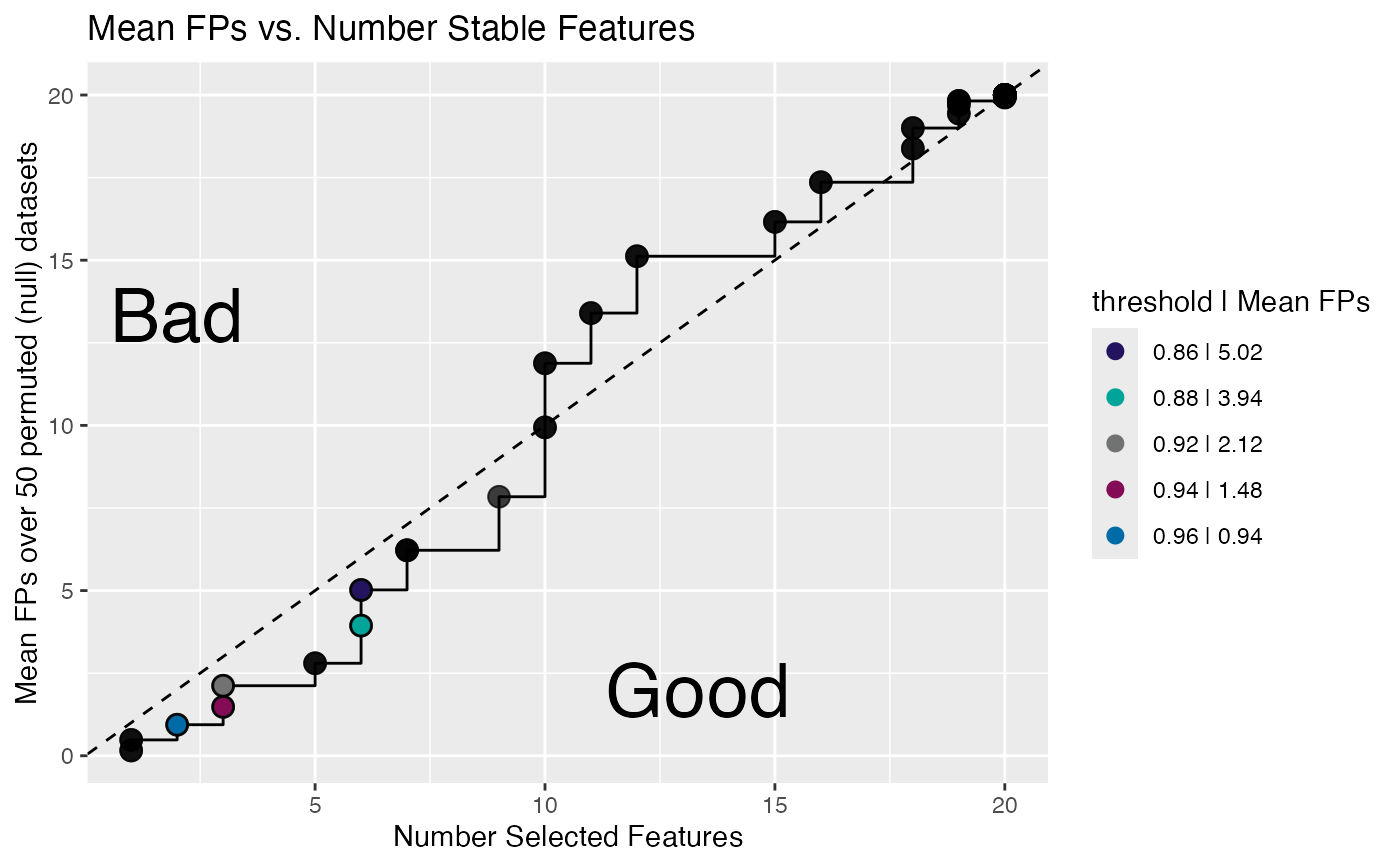
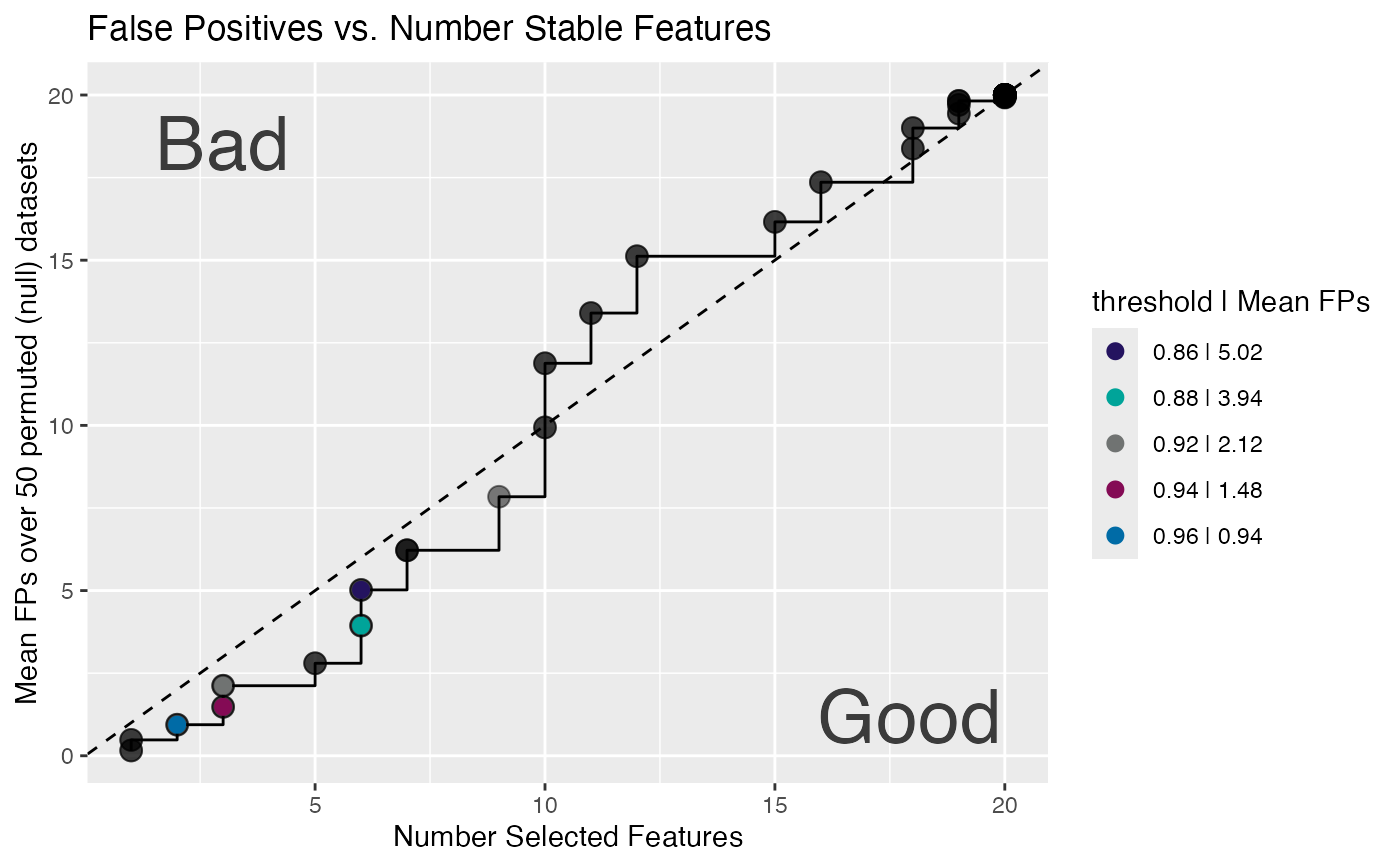
Built site for stabilityselectr@0.1.0: ffa2b7c

diff --git a/reference/calc_emp_fdr.html b/reference/calc_emp_fdr.html
@@ -60,7 +60,7 @@ stability selection, (i.e. <code>n_perm &gt; 0</code>).</p>
 <span>  fdr_breaks <span class="op">=</span> <span class="fu"><a href="https://rdrr.io/r/base/c.html" class="external-link">c</a></span><span class="op">(</span><span class="fl">0.5</span>, <span class="fl">1</span>, <span class="fl">2</span>, <span class="fl">3</span>, <span class="fl">5</span><span class="op">)</span></span>
 <span><span class="op">)</span></span>
 <span></span>
-<span><span class="fu">plot_emp_fdr</span><span class="op">(</span><span class="va">x</span>, thresh_seq <span class="op">=</span> <span class="fu"><a href="https://rdrr.io/r/base/seq.html" class="external-link">seq</a></span><span class="op">(</span><span class="fl">1</span>, <span class="fl">0.1</span>, by <span class="op">=</span> <span class="op">-</span><span class="fl">0.01</span><span class="op">)</span><span class="op">)</span></span>
+<span><span class="fu">plot_emp_fdr</span><span class="op">(</span><span class="va">x</span>, <span class="va">...</span><span class="op">)</span></span>
 <span></span>
 <span><span class="fu">plot_permuted_data</span><span class="op">(</span><span class="va">x</span>, which <span class="op">=</span> <span class="cn">NULL</span>, <span class="va">...</span><span class="op">)</span></span></code></pre></div>
     </div>
@@ -92,13 +92,15 @@ to calculate various thresholds.</p>
 <p><code>numeric(n)</code>. A vector specifying the</p></dd>
 
 
+<dt id="arg--">...<a class="anchor" aria-label="anchor" href="#arg--"></a></dt>
+<dd><p>Additional arguments passed to either
+<code>calc_emp_fdr_breaks()</code> (i.e. <code>thresh_seq</code> and <code>fdr_breaks</code>)
+or <code><a href="stability_selection.html">plot.stab_sel()</a></code>.</p></dd>
+
+
 <dt id="arg-which">which<a class="anchor" aria-label="anchor" href="#arg-which"></a></dt>
 <dd><p><code>integer(1)</code>. Which of the null hypothesis
 permuted stability paths to plot.</p></dd>
-
-
-<dt id="arg--">...<a class="anchor" aria-label="anchor" href="#arg--"></a></dt>
-<dd><p>Additional arguments passed to <code><a href="stability_selection.html">plot.stab_sel()</a></code>.</p></dd>
 
 </dl></div>
     <div class="section level2">
@@ -163,8 +165,8 @@ of the <code>n</code> class scrambled permutations, i.e. the null.</p></li>
 <span class="r-in"><span><span class="va">ss</span> <span class="op">&lt;-</span> <span class="fu"><a href="stability_selection.html">stability_selection</a></span><span class="op">(</span><span class="va">x</span>, <span class="va">y</span>, n_iter <span class="op">=</span> <span class="fl">25</span>, n_perm <span class="op">=</span> <span class="fl">50</span>,</span></span>
 <span class="r-in"><span>                          r_seed <span class="op">=</span> <span class="fl">101</span>, parallel <span class="op">=</span> <span class="cn">TRUE</span><span class="op">)</span></span></span>
 <span class="r-msg co"><span class="r-pr">#&gt;</span> <span style="color: #00BB00;">✓</span> Using kernel: <span style="color: #0000BB;">'binomial'</span> and <span style="color: #0000BB;">1</span> core (serial)</span>
-<span class="r-msg co"><span class="r-pr">#&gt;</span> <span style="color: #00BB00;">✓</span> Stablity path run time: <span style="color: #0000BB;">0.103</span></span>
-<span class="r-msg co"><span class="r-pr">#&gt;</span> <span style="color: #00BB00;">✓</span> Perm path run time: <span style="color: #0000BB;">4.077</span></span>
+<span class="r-msg co"><span class="r-pr">#&gt;</span> <span style="color: #00BB00;">✓</span> Stablity path run time: <span style="color: #0000BB;">0.099</span></span>
+<span class="r-msg co"><span class="r-pr">#&gt;</span> <span style="color: #00BB00;">✓</span> Perm path run time: <span style="color: #0000BB;">2.576</span></span>
 <span class="r-in"><span><span class="fu">calc_emp_fdr</span><span class="op">(</span><span class="va">ss</span>, <span class="fu"><a href="https://rdrr.io/r/base/seq.html" class="external-link">seq</a></span><span class="op">(</span><span class="fl">0.5</span>, <span class="fl">0.9</span>, <span class="fl">0.1</span><span class="op">)</span><span class="op">)</span></span></span>
 <span class="r-out co"><span class="r-pr">#&gt;</span> thresh_0.5 thresh_0.6 thresh_0.7 thresh_0.8 thresh_0.9 </span>
 <span class="r-out co"><span class="r-pr">#&gt;</span>      20.00      19.82      17.36       9.94       2.80 </span>
@@ -200,11 +202,6 @@ of the <code>n</code> class scrambled permutations, i.e. the null.</p></li>
 <span class="r-in"><span></span></span>
 <span class="r-in"><span><span class="co"># plot the FDR</span></span></span>
 <span class="r-in"><span><span class="fu">plot_emp_fdr</span><span class="op">(</span><span class="va">ss</span><span class="op">)</span>  <span class="co"># typically set permutations &gt; 75</span></span></span>
-<span class="r-wrn co"><span class="r-pr">#&gt;</span> <span class="warning">Warning: </span>Using `size` aesthetic for lines was deprecated in ggplot2 3.4.0.</span>
-<span class="r-wrn co"><span class="r-pr">#&gt;</span> <span style="color: #00BBBB;">ℹ</span> Please use `linewidth` instead.</span>
-<span class="r-wrn co"><span class="r-pr">#&gt;</span> <span style="color: #00BBBB;">ℹ</span> The deprecated feature was likely used in the <span style="color: #0000BB;">stabilityselectr</span></span>
-<span class="r-wrn co"><span class="r-pr">#&gt;</span>   package.</span>
-<span class="r-wrn co"><span class="r-pr">#&gt;</span>   Please report the issue to the authors.</span>
 <span class="r-plt img"><img src="calc_emp_fdr-1.png" alt="" width="700" height="433"></span>
 <span class="r-in"><span></span></span>
 <span class="r-in"><span><span class="co"># Plot the permuted data individually</span></span></span>

diff --git a/news/index.html b/news/index.html
@@ -37,6 +37,10 @@
     </div>
 
     <div class="section level2">
+<h2 class="pkg-version" data-toc-text="development version" id="stabilityselectr-development-version">stabilityselectr (development version)<a class="anchor" aria-label="anchor" href="#stabilityselectr-development-version"></a></h2>
+<ul><li>
+</li></ul></div>
+    <div class="section level2">
 <h2 class="pkg-version" data-toc-text="0.1.0" id="stabilityselectr-010">stabilityselectr 0.1.0<a class="anchor" aria-label="anchor" href="#stabilityselectr-010"></a></h2>
 <ul><li>Development …
 <ul><li>major structural changes</li>

diff --git a/reference/stability_selection.html b/reference/stability_selection.html
@@ -468,7 +468,7 @@ Methodology), 72: 417-473. doi: 10.1111/j.1467-9868.2010.00740.x</p>
 <span class="r-in"><span><span class="va">y</span>           <span class="op">&lt;-</span> <span class="fu"><a href="https://rdrr.io/r/base/sample.html" class="external-link">sample</a></span><span class="op">(</span><span class="fl">1</span><span class="op">:</span><span class="fl">2</span>, <span class="va">n_samp</span>, replace <span class="op">=</span> <span class="cn">TRUE</span><span class="op">)</span></span></span>
 <span class="r-in"><span><span class="va">stab_sel</span>    <span class="op">&lt;-</span> <span class="fu">stability_selection</span><span class="op">(</span><span class="va">x</span>, <span class="va">y</span><span class="op">)</span></span></span>
 <span class="r-msg co"><span class="r-pr">#&gt;</span> <span style="color: #00BB00;">✓</span> Using kernel: <span style="color: #0000BB;">'binomial'</span> and <span style="color: #0000BB;">1</span> core (serial)</span>
-<span class="r-msg co"><span class="r-pr">#&gt;</span> <span style="color: #00BB00;">✓</span> Stablity path run time: <span style="color: #0000BB;">3.233</span></span>
+<span class="r-msg co"><span class="r-pr">#&gt;</span> <span style="color: #00BB00;">✓</span> Stablity path run time: <span style="color: #0000BB;">2.223</span></span>
 <span class="r-in"><span></span></span>
 <span class="r-in"><span><span class="co"># Cox</span></span></span>
 <span class="r-in"><span><span class="va">xcox</span> <span class="op">&lt;-</span> <span class="fu"><a href="https://stufield.github.io/wranglr/reference/feature_matrix.html" class="external-link">feature_matrix</a></span><span class="op">(</span><span class="fu">stabilityselectr</span><span class="fu">:::</span><span class="fu">log_rfu</span><span class="op">(</span><span class="va">simdata</span><span class="op">)</span><span class="op">)</span></span></span>
@@ -480,7 +480,7 @@ Methodology), 72: 417-473. doi: 10.1111/j.1467-9868.2010.00740.x</p>
 <span class="r-in"><span><span class="va">ycox</span> <span class="op">&lt;-</span> <span class="fu"><a href="https://rdrr.io/r/base/data.matrix.html" class="external-link">data.matrix</a></span><span class="op">(</span><span class="fu">select</span><span class="op">(</span><span class="va">simdata</span>, <span class="va">time</span>, <span class="va">status</span><span class="op">)</span><span class="op">)</span></span></span>
 <span class="r-in"><span><span class="va">stab_sel_cox</span> <span class="op">&lt;-</span> <span class="fu">stability_selection</span><span class="op">(</span><span class="va">xcox</span>, <span class="va">ycox</span>, kernel <span class="op">=</span> <span class="st">"cox"</span>, r_seed <span class="op">=</span> <span class="fl">3</span><span class="op">)</span></span></span>
 <span class="r-msg co"><span class="r-pr">#&gt;</span> <span style="color: #00BB00;">✓</span> Using kernel: <span style="color: #0000BB;">'cox'</span> and <span style="color: #0000BB;">1</span> core (serial)</span>
-<span class="r-msg co"><span class="r-pr">#&gt;</span> <span style="color: #00BB00;">✓</span> Stablity path run time: <span style="color: #0000BB;">0.628</span></span>
+<span class="r-msg co"><span class="r-pr">#&gt;</span> <span style="color: #00BB00;">✓</span> Stablity path run time: <span style="color: #0000BB;">0.464</span></span>
 <span class="r-in"><span><span class="co"># Test for class `stab_sel`</span></span></span>
 <span class="r-in"><span><span class="fu">is_stab_sel</span><span class="op">(</span><span class="va">stab_sel</span><span class="op">)</span></span></span>
 <span class="r-out co"><span class="r-pr">#&gt;</span> [1] TRUE</span>

diff --git a/articles/stabilityselectr.html b/articles/stabilityselectr.html
@@ -106,7 +106,7 @@ below.</p>
 <span><span class="va">y</span>           <span class="op">&lt;-</span> <span class="fu"><a href="https://rdrr.io/r/base/sample.html" class="external-link">sample</a></span><span class="op">(</span><span class="fl">1</span><span class="op">:</span><span class="fl">2</span>, <span class="va">n_samples</span>, replace <span class="op">=</span> <span class="cn">TRUE</span><span class="op">)</span></span>
 <span><span class="va">stab_sel</span>    <span class="op">&lt;-</span> <span class="fu"><a href="../reference/stability_selection.html">stability_selection</a></span><span class="op">(</span><span class="va">x</span>, <span class="va">y</span>, <span class="st">"binomial"</span>, n_iter <span class="op">=</span> <span class="fl">500L</span><span class="op">)</span></span>
 <span><span class="co">#&gt; ✓ Using kernel: 'binomial' and 1 core (serial)</span></span>
-<span><span class="co">#&gt; ✓ Stablity path run time: 2.375</span></span>
+<span><span class="co">#&gt; ✓ Stablity path run time: 1.604</span></span>
 <span><span class="fu"><a href="../reference/stability_selection.html">is_stab_sel</a></span><span class="op">(</span><span class="va">stab_sel</span><span class="op">)</span></span>
 <span><span class="co">#&gt; [1] TRUE</span></span>
 <span><span class="va">stab_sel</span></span>

diff --git a/reference/get_stable_features.html b/reference/get_stable_features.html
@@ -119,7 +119,7 @@ user a control mechanism for the output behavior.</p>
 <span class="r-in"><span></span></span>
 <span class="r-in"><span><span class="va">stab_sel</span> <span class="op">&lt;-</span> <span class="fu"><a href="stability_selection.html">stability_selection</a></span><span class="op">(</span><span class="va">x</span>, <span class="va">y</span>, r_seed <span class="op">=</span> <span class="fl">101</span><span class="op">)</span></span></span>
 <span class="r-msg co"><span class="r-pr">#&gt;</span> <span style="color: #00BB00;">✓</span> Using kernel: <span style="color: #0000BB;">'binomial'</span> and <span style="color: #0000BB;">1</span> core (serial)</span>
-<span class="r-msg co"><span class="r-pr">#&gt;</span> <span style="color: #00BB00;">✓</span> Stablity path run time: <span style="color: #0000BB;">0.37</span></span>
+<span class="r-msg co"><span class="r-pr">#&gt;</span> <span style="color: #00BB00;">✓</span> Stablity path run time: <span style="color: #0000BB;">0.353</span></span>
 <span class="r-in"><span></span></span>
 <span class="r-in"><span><span class="co"># Stable features at `thresh =`</span></span></span>
 <span class="r-in"><span><span class="fu">get_stable_features</span><span class="op">(</span><span class="va">stab_sel</span>, <span class="fl">0.75</span><span class="op">)</span></span></span>

diff --git a/reference/calc_emp_fdr.md b/reference/calc_emp_fdr.md
@@ -16,7 +16,7 @@ calc_emp_fdr_breaks(
   fdr_breaks = c(0.5, 1, 2, 3, 5)
 )
 
-plot_emp_fdr(x, thresh_seq = seq(1, 0.1, by = -0.01))
+plot_emp_fdr(x, ...)
 
 plot_permuted_data(x, which = NULL, ...)
 ```
@@ -46,15 +46,16 @@ plot_permuted_data(x, which = NULL, ...)
 
   `numeric(n)`. A vector specifying the
 
+- ...:
+
+  Additional arguments passed to either `calc_emp_fdr_breaks()` (i.e.
+  `thresh_seq` and `fdr_breaks`) or
+  [`plot.stab_sel()`](https://stufield.github.io/stabilityselectr/reference/stability_selection.md).
+
 - which:
 
   `integer(1)`. Which of the null hypothesis permuted stability paths to
   plot.
-
-- ...:
-
-  Additional arguments passed to
-  [`plot.stab_sel()`](https://stufield.github.io/stabilityselectr/reference/stability_selection.md).
 
 ## Value
 
@@ -122,8 +123,8 @@ y           <- sample(1:2, n_samples, replace = TRUE)
 ss <- stability_selection(x, y, n_iter = 25, n_perm = 50,
                           r_seed = 101, parallel = TRUE)
 #> ✓ Using kernel: 'binomial' and 1 core (serial)
-#> ✓ Stablity path run time: 0.103
-#> ✓ Perm path run time: 4.077
+#> ✓ Stablity path run time: 0.099
+#> ✓ Perm path run time: 2.576
 calc_emp_fdr(ss, seq(0.5, 0.9, 0.1))
 #> thresh_0.5 thresh_0.6 thresh_0.7 thresh_0.8 thresh_0.9 
 #>      20.00      19.82      17.36       9.94       2.80 
@@ -159,11 +160,6 @@ calc_emp_fdr_breaks(ss)
 
 # plot the FDR
 plot_emp_fdr(ss)  # typically set permutations > 75
-#> Warning: Using `size` aesthetic for lines was deprecated in ggplot2 3.4.0.
-#> ℹ Please use `linewidth` instead.
-#> ℹ The deprecated feature was likely used in the stabilityselectr
-#>   package.
-#>   Please report the issue to the authors.
 
 
 # Plot the permuted data individually

diff --git a/news/index.md b/news/index.md
@@ -1,5 +1,9 @@
 # Changelog
 
+## stabilityselectr (development version)
+
+- 
+
 ## stabilityselectr 0.1.0
 
 - Development …

diff --git a/reference/stability_selection.md b/reference/stability_selection.md
@@ -405,7 +405,7 @@ colnames(x) <- paste0("feat", "_", head(letters, n_feat))
 y           <- sample(1:2, n_samp, replace = TRUE)
 stab_sel    <- stability_selection(x, y)
 #> ✓ Using kernel: 'binomial' and 1 core (serial)
-#> ✓ Stablity path run time: 3.233
+#> ✓ Stablity path run time: 2.223
 
 # Cox
 xcox <- feature_matrix(stabilityselectr:::log_rfu(simdata))
@@ -417,7 +417,7 @@ xcox <- feature_matrix(stabilityselectr:::log_rfu(simdata))
 ycox <- data.matrix(select(simdata, time, status))
 stab_sel_cox <- stability_selection(xcox, ycox, kernel = "cox", r_seed = 3)
 #> ✓ Using kernel: 'cox' and 1 core (serial)
-#> ✓ Stablity path run time: 0.628
+#> ✓ Stablity path run time: 0.464
 # Test for class `stab_sel`
 is_stab_sel(stab_sel)
 #> [1] TRUE

diff --git a/articles/stabilityselectr.md b/articles/stabilityselectr.md
@@ -39,7 +39,7 @@ colnames(x) <- paste0("feat", "_", head(letters, n_feat))
 y           <- sample(1:2, n_samples, replace = TRUE)
 stab_sel    <- stability_selection(x, y, "binomial", n_iter = 500L)
 #> ✓ Using kernel: 'binomial' and 1 core (serial)
-#> ✓ Stablity path run time: 2.375
+#> ✓ Stablity path run time: 1.604
 is_stab_sel(stab_sel)
 #> [1] TRUE
 stab_sel

diff --git a/reference/get_stable_features.md b/reference/get_stable_features.md
@@ -75,7 +75,7 @@ y           <- sample(1:2, n_samples, replace = TRUE)
 
 stab_sel <- stability_selection(x, y, r_seed = 101)
 #> ✓ Using kernel: 'binomial' and 1 core (serial)
-#> ✓ Stablity path run time: 0.37
+#> ✓ Stablity path run time: 0.353
 
 # Stable features at `thresh =`
 get_stable_features(stab_sel, 0.75)